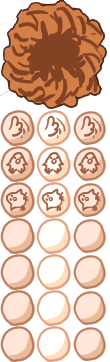
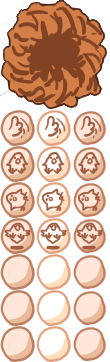
Add jump emote button

Changed region(s): [[0.6818, 0.6077, 0.9273, 0.6989], [0.3545, 0.6077, 0.6, 0.6989], [0.0273, 0.6077, 0.2727, 0.6989]]

diff --git a/website/game/menu/emote.js b/website/game/menu/emote.js
@@ -18,11 +18,13 @@ MENUS["emoteMenu"] = new class extends Menu {
 		this.buttons = {};
 
 		this.buttons[1] = new Button(false, ()=>{PLAYER.emote("wave"); CHAT.emoteMenuOpen = false;},
-			{image: IMG.emoteMenu, frames:[SPRITE.emoteButton.getFrame(0,0),SPRITE.emoteButton.getFrame(1,0),SPRITE.emoteButton.getFrame(2,0)]}, 211,432, 36,36);
+			{image: IMG.emoteMenu, frames:[SPRITE.emoteButton.getFrame(0,0),SPRITE.emoteButton.getFrame(1,0),SPRITE.emoteButton.getFrame(2,0)]}, 211,419, 36,36);
 		this.buttons[2] = new Button(false, ()=>{PLAYER.emote("sit"); CHAT.emoteMenuOpen = false;},
-			{image: IMG.emoteMenu, frames:[SPRITE.emoteButton.getFrame(0,1),SPRITE.emoteButton.getFrame(1,1),SPRITE.emoteButton.getFrame(2,1)]}, 194,467, 36,36);
+			{image: IMG.emoteMenu, frames:[SPRITE.emoteButton.getFrame(0,1),SPRITE.emoteButton.getFrame(1,1),SPRITE.emoteButton.getFrame(2,1)]}, 184,450, 36,36);
 		this.buttons[3] = new Button(false, ()=>{PLAYER.emote("dance"); CHAT.emoteMenuOpen = false;},
-			{image: IMG.emoteMenu, frames:[SPRITE.emoteButton.getFrame(0,2),SPRITE.emoteButton.getFrame(1,2),SPRITE.emoteButton.getFrame(2,2)]}, 233,467, 36,36);
+			{image: IMG.emoteMenu, frames:[SPRITE.emoteButton.getFrame(0,2),SPRITE.emoteButton.getFrame(1,2),SPRITE.emoteButton.getFrame(2,2)]}, 243,450, 36,36);
+		this.buttons[4] = new Button(false, ()=>{PLAYER.jump(); CHAT.emoteMenuOpen = false;},
+			{image: IMG.emoteMenu, frames:[SPRITE.emoteButton.getFrame(0,3),SPRITE.emoteButton.getFrame(1,3),SPRITE.emoteButton.getFrame(2,3)]}, 211,481, 36,36);
 	}
 
 	keyPress(key) {

diff --git a/website/game/objects/character.js b/website/game/objects/character.js
@@ -543,7 +543,7 @@ export default class Character extends PhysicsObject {
 	}
 
 	// Jump
-	jump(dist) {
+	jump(dist=500) {
 		if (dist == 0) {dist = 500;}
 		this.sz = -dist;
 		if (this == PLAYER) {
